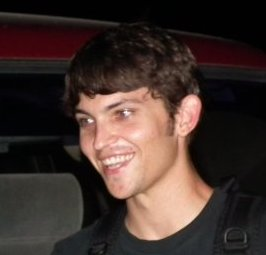
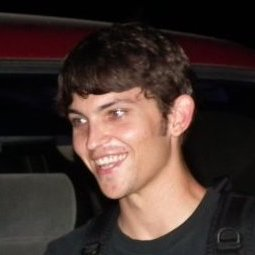
cropping about_creators images and slightly modifying about.css

diff --git a/stylesheets/about.css b/stylesheets/about.css
@@ -55,9 +55,9 @@ body {
 
 .headshot-photo {
     padding: 20px 0;
-    max-height: 240px;
+    max-height: 255px;
     border-radius: 50%;
-    max-width: 177px;
+    max-width: 255px;
 }
 
 @media screen and (min-width: 360px) {
@@ -72,10 +72,6 @@ body {
     .headshots-container {
         flex-direction: row;
         padding-top: 10px;
-    }
-
-    .headshot-photo {
-        max-width: 300px;
     }
 
     .about-creators-alternate {
@@ -126,11 +122,6 @@ body {
     .about-text h5 {
         text-align: center;
     }
-
-    .headshot-photo {
-        max-width: 177px;
-    }
-
 }
 
 @media screen and (min-width: 1200px) {
@@ -170,11 +161,7 @@ body {
 
     .headshots-container {
         flex-direction: row;
-        justify-content: space-evenly;
+        justify-content: space-around;
         padding: 0;
-    }
-
-    .headshot-photo {
-        max-width: 300px;
     }
 }
